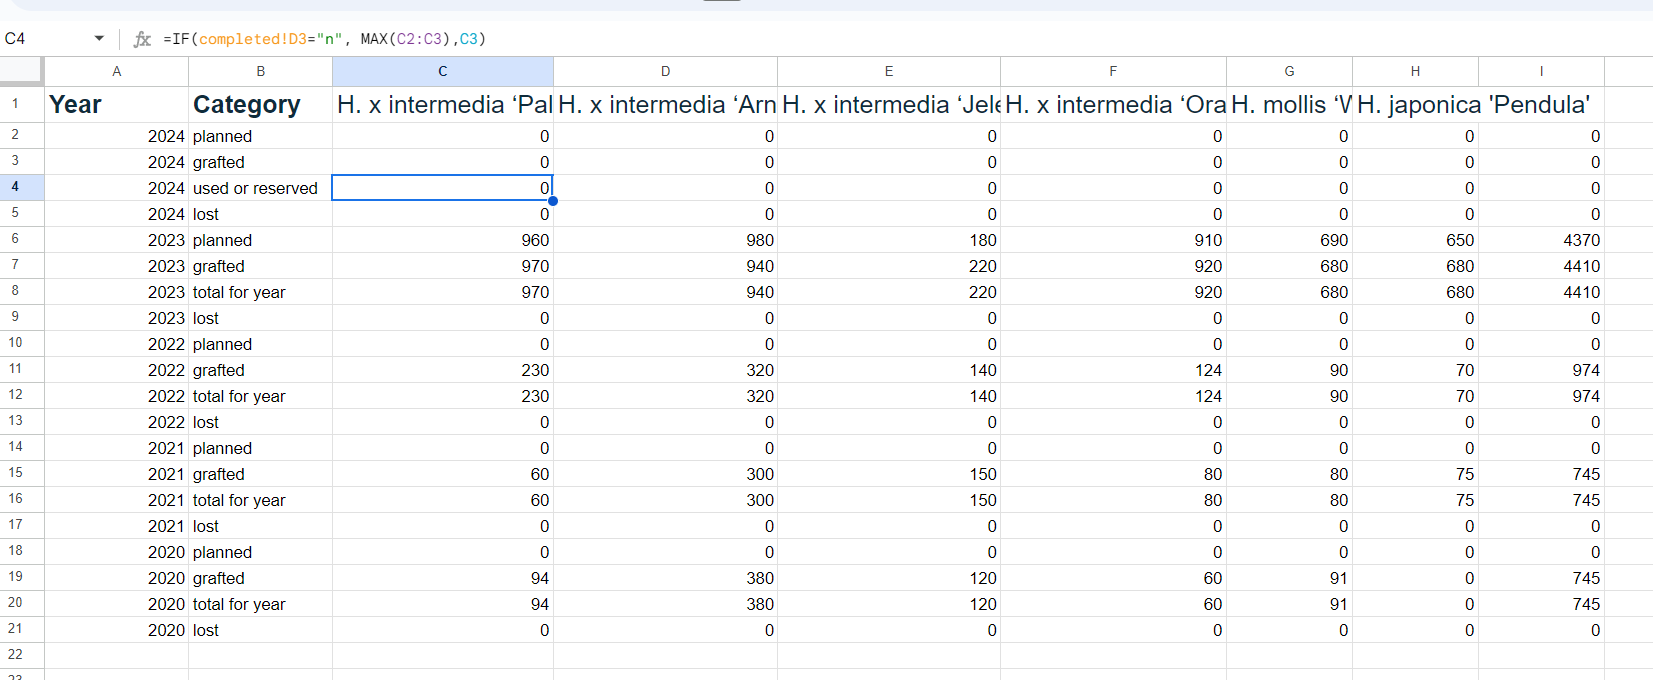
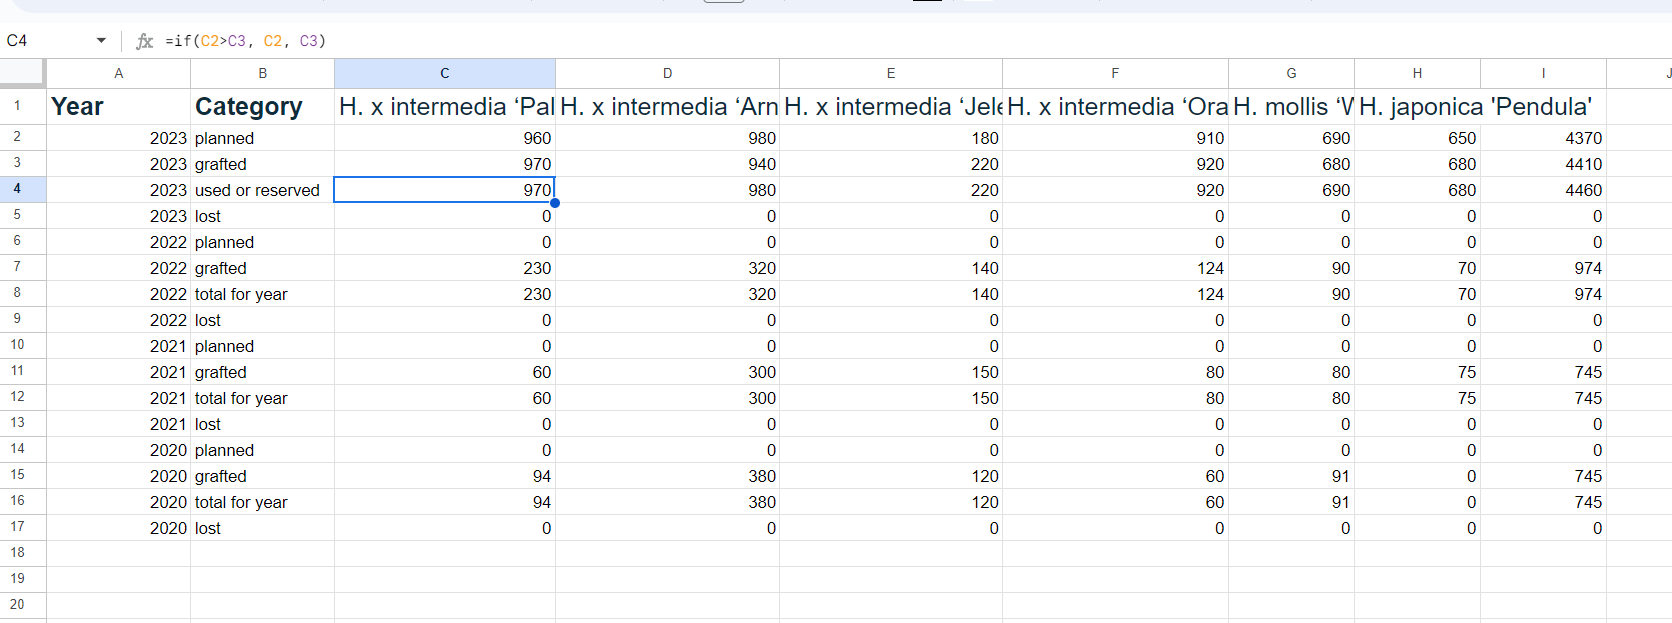
Debug: eliminate wrong links in readme, fourth attempt

diff --git a/README.md b/README.md
@@ -136,13 +136,13 @@ The grafts-year-zero worksheet contains two more columns than the number of cult
 - The first column identifies the year to which the data in the corresponding row refers.
 - The second column tells any human or machine reader whether the figures in the corresponding row refer to numbers of grafted plants that the couple originally planned ('planned'), that they actually made ('grafted'), that they currently have either already used up or committed to in planning ('used or reserved') and, finally, that they have since lost. The 'grafted' figure is the total number of mature rootstocks (potted up in Year Minus One) upon which a graft of the corresponding variety has been made. For changes made to it programmatically on closing out the year, see below.
 
-![The grafts-year-zero worksheet the start of a year](assets/readme_assets/grafts-year-zero_before.png)
+![The grafts-year-zero worksheet the start of a year](assets/readme_assets/grafts-year-zero_after.png)
 
-*The grafts-year-zero worksheet as it might look at the start of a growing year (2024). Notice that the formulae are already in place, ready to process user entries through the App*
+*The grafts-year-zero worksheet as it might look at the start of a growing year (2024) after Option 0 has been run. Notice that the formulae are already in place, ready to process user entries through the App*
 
-![The grafts-year-zero worksheet the end of a year](assets/readme_assets/grafts-year-zero_after.png)
+![The grafts-year-zero worksheet the end of a year](assets/readme_assets/grafts-year-zero_before.png)
 
-*The grafts-year-zero worksheet as it might look at the end of a growing year (2024)*
+*The grafts-year-zero worksheet as it might look at the end of a growing year (2023), before Option 0 has been run.*
 
 <!-- TOC --><a name="the-rootstock-worksheet"></a>
 ### The 'rootstock' worksheet 
@@ -164,11 +164,11 @@ Any rootstocks notionally left over after the year's grafting campaign is finish
 
 ![The rootstock worksheet at the end of a year](assets/readme_assets/rootstock_before.png)
 
-*The rootstock worksheet as it might look at the end of a growing year (2024)*
+*The rootstock worksheet as it might look at the start of a growing year (2024)* straight after the user has executed the* ``Create new year/Close out current year`` *function (for 2024). Note that the user has chosen to enter a value for planned cuttings of 5200. That value can be changed at any time during the year by running Option 2* ``Plan this year's cutting campaign``*
 
 ![The rootstock worksheet at the end of a year](assets/readme_assets/rootstock_after.png)
 
-*The rootstock worksheet as it might look at the start of a growing year (2024), straight after the user has executed the* ``Create new year/Close out current year`` *function (for 2024). Note that the user has chosen to enter a value for planned cuttings of 5200. That value can be changed at any time during the year by running Option 2* ``Plan this year's cutting campaign``*
+*The rootstock worksheet as it might look at the end of a growing year (2024). Note that no changes have been made to the row marked 2024 beyond column C, as all that has happened to cuttings for this year is that they're having been planned during this year. They now need to grow roots (for potting next year) and then grow into rootstocks ready for grafting (for the year after next).
 
 
 <!-- TOC --><a name="the-plants-worksheet"></a>
